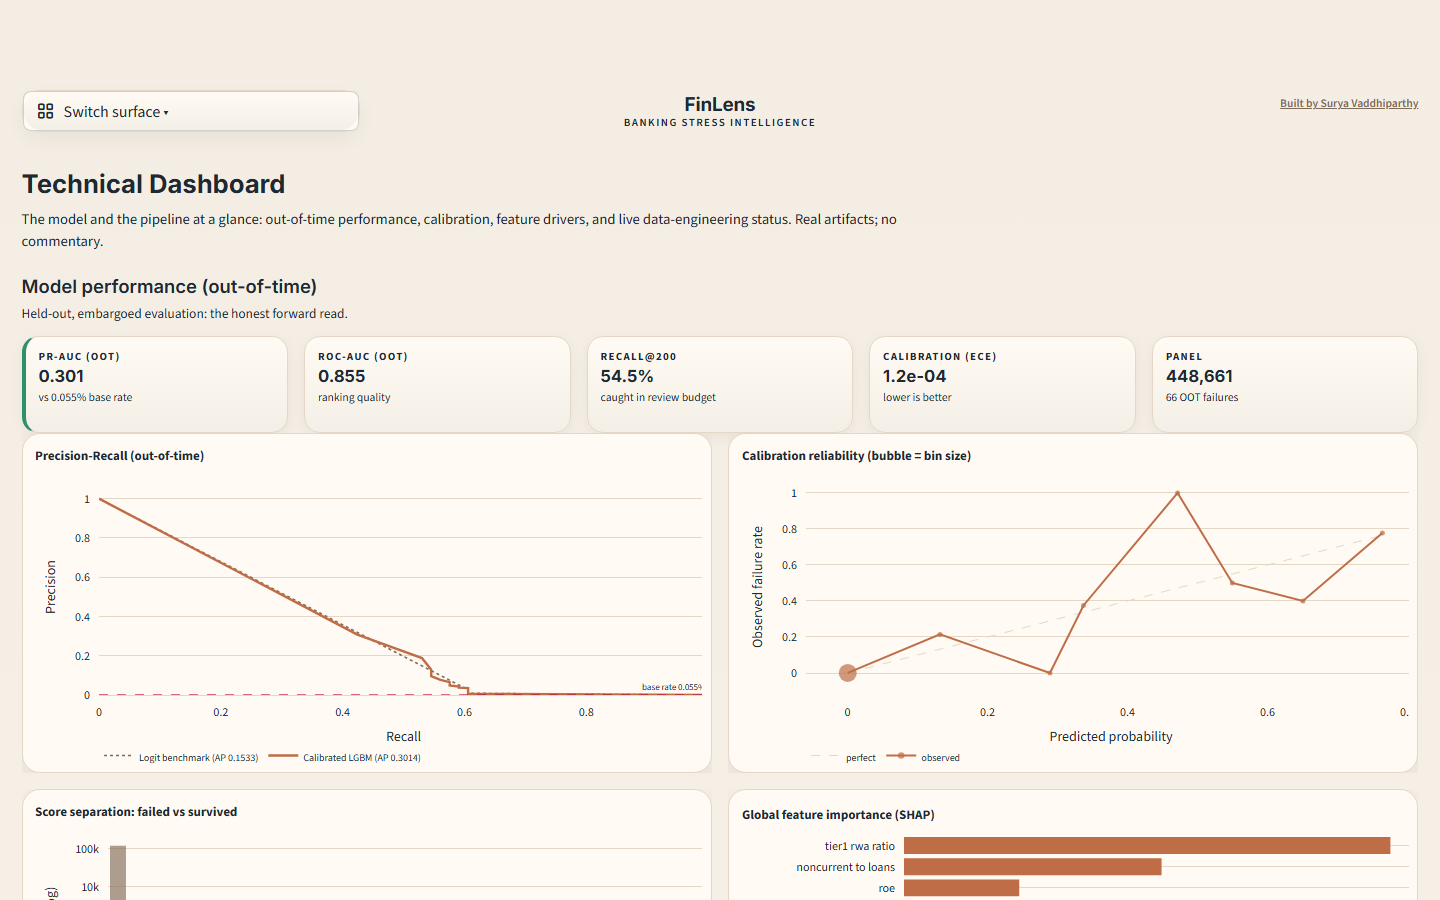
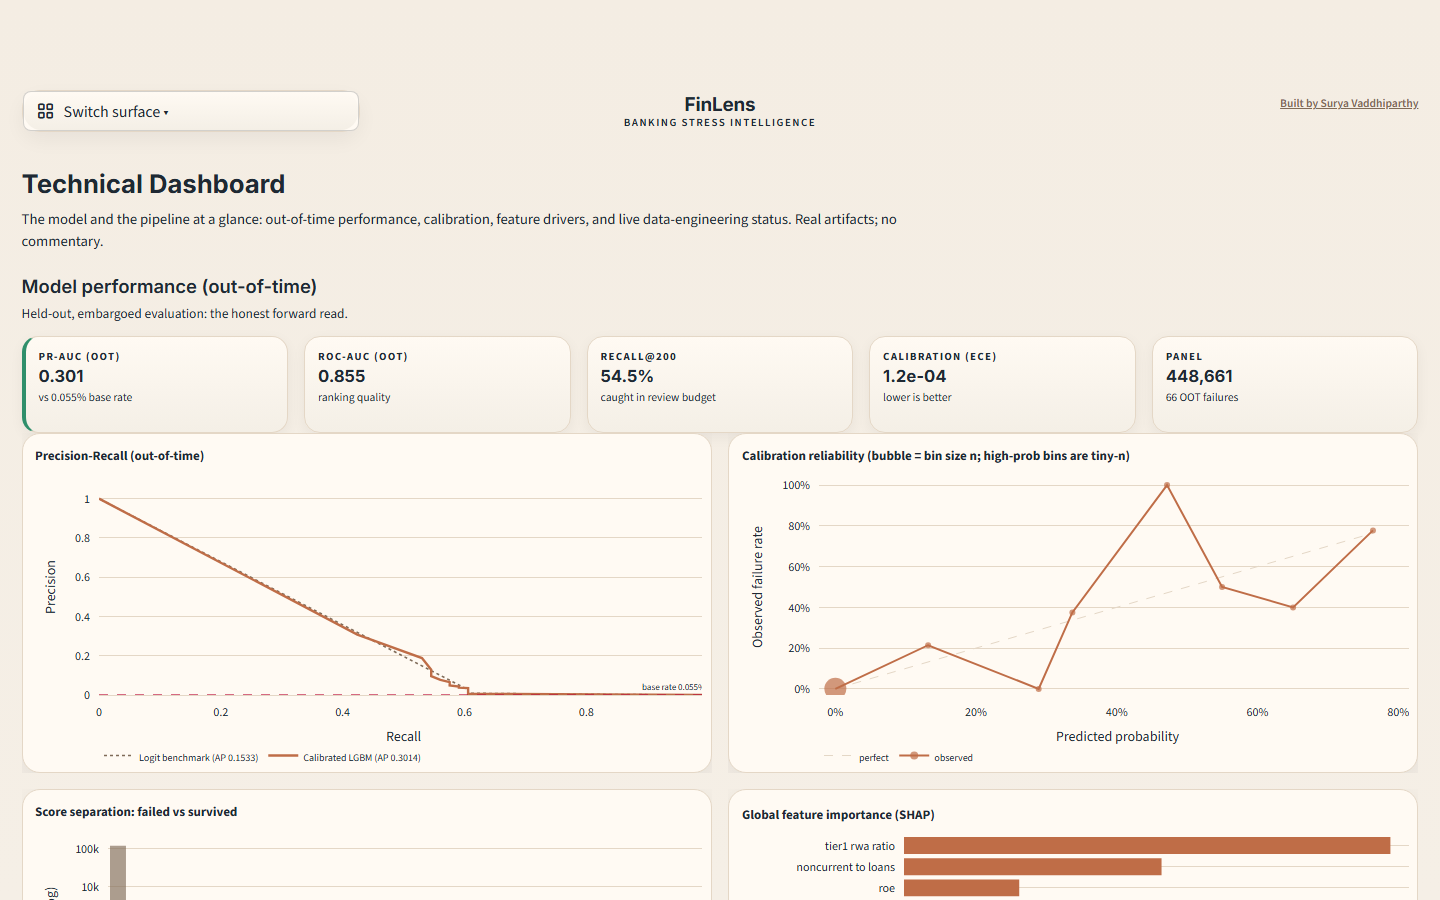
Ceiling round 2: fix AI-inference SHAP caption HTML leak, calibration axes, card contrast
Adversarial re-review fixes: the AI Inference 'what drives this score' caption rendered as
literal HTML (a backslash-escaped apostrophe broke Streamlit's sanitizer) -> now a plain
visible caption. Calibration chart: padded percent axes (top tick no longer clipped) + bin
size on hover + 'high-prob bins are tiny-n' note. Home Browse cards: stronger border, accent
left-edge, shadow, hover lift. pytest 85.

diff --git a/streamlit_app/app.py b/streamlit_app/app.py
@@ -60,18 +60,23 @@ st.markdown(
     .browse-col-h { font-size: .72rem; font-weight: 800; letter-spacing: .14em; text-transform: uppercase;
         color: #bf6d47; margin: .2rem 0 .7rem; }
     .browse-div { border-left: 1px solid #e4d7c6; height: 100%; min-height: 320px; margin: 0 auto; width: 1px; }
-    .nav-card { border: 1px solid #e4d7c6; border-bottom: none; border-radius: 12px 12px 0 0;
-        background: #ffffff; padding: .7rem .9rem .55rem; }
-    .nav-card-t { font-family: "Inter", system-ui, sans-serif; font-weight: 800; font-size: 1.02rem;
+    .nav-card { border: 1px solid #e0d2bf; border-left: 3px solid #bf6d47; border-bottom: none;
+        border-radius: 10px 10px 0 0; background: #ffffff; padding: .8rem .95rem .6rem;
+        box-shadow: 0 6px 18px rgba(15,23,42,.05); }
+    .nav-card-t { font-family: "Inter", system-ui, sans-serif; font-weight: 800; font-size: 1.05rem;
         color: #1f2933; }
     .nav-card-d { color: #6a6b74; font-size: .82rem; line-height: 1.35; margin-top: .15rem; }
     div[class*="st-key-nav_"] button {
-        border: 1px solid #e4d7c6 !important; border-top: none !important;
-        border-radius: 0 0 12px 12px !important; background: #fbf5ee !important;
-        color: #bf6d47 !important; font-weight: 700 !important; margin: 0 0 .8rem !important;
+        border: 1px solid #e0d2bf !important; border-left: 3px solid #bf6d47 !important;
+        border-top: none !important; border-radius: 0 0 10px 10px !important;
+        background: #fbf3ec !important; color: #bf6d47 !important; font-weight: 800 !important;
+        font-size: .9rem !important; margin: 0 0 .85rem !important;
+        box-shadow: 0 6px 18px rgba(15,23,42,.05) !important;
+        transition: background .12s ease, transform .12s ease !important;
     }
     div[class*="st-key-nav_"] button:hover {
         background: #bf6d47 !important; color: #fff !important; border-color: #bf6d47 !important;
+        transform: translateY(-1px) !important;
     }
     div[class*="st-key-nav_"] button:hover * { color: #fff !important; -webkit-text-fill-color: #fff !important; }
     </style>

diff --git a/streamlit_app/lib/ml_charts.py b/streamlit_app/lib/ml_charts.py
@@ -98,18 +98,22 @@ def roc_curve_fig(pack: dict, mode: str | None = None) -> go.Figure:
 def calibration_fig(pack: dict, mode: str | None = None) -> go.Figure:
     pal = get_palette(mode)
     rows = pack["calibration"]
+    mx = max((r["pred"] for r in rows), default=1) or 1
     fig = go.Figure()
-    fig.add_scatter(x=[0, max(r["pred"] for r in rows) or 1], y=[0, max(r["pred"] for r in rows) or 1],
-                    mode="lines", name="perfect", line=dict(color=pal["border"], width=1, dash="dash"))
+    fig.add_scatter(x=[0, mx], y=[0, mx], mode="lines", name="perfect",
+                    line=dict(color=pal["border"], width=1, dash="dash"))
     fig.add_scatter(
         x=[r["pred"] for r in rows], y=[r["obs"] for r in rows],
         mode="lines+markers", name="observed",
         line=dict(color=pal["accent"], width=2),
-        marker=dict(size=[max(5, min(18, (r["n"] ** 0.5) / 3)) for r in rows], color=pal["accent"]),
+        marker=dict(size=[max(6, min(22, (r["n"] ** 0.5) / 2.5)) for r in rows], color=pal["accent"]),
+        customdata=[r["n"] for r in rows],
+        hovertemplate="predicted %{x:.1%}<br>observed %{y:.1%}<br>bin size n=%{customdata}<extra></extra>",
     )
-    fig.update_xaxes(title="Predicted probability")
-    fig.update_yaxes(title="Observed failure rate")
-    return _base(fig, pal, title="Calibration reliability (bubble = bin size)")
+    # explicit padded ranges so the top tick label is not clipped, and a sane y window
+    fig.update_xaxes(title="Predicted probability", range=[-mx * 0.03, mx * 1.08], tickformat=".0%")
+    fig.update_yaxes(title="Observed failure rate", range=[-0.03, 1.03], tickformat=".0%")
+    return _base(fig, pal, title="Calibration reliability (bubble = bin size n; high-prob bins are tiny-n)")
 
 
 def score_dist_fig(pack: dict, mode: str | None = None) -> go.Figure:

diff --git a/streamlit_app/pages/9_AI_Inference.py b/streamlit_app/pages/9_AI_Inference.py
@@ -95,11 +95,9 @@ def _render_preview(out: dict) -> None:
     with scol:
         fig = _shap_diverging(result.get("reasons", []))
         if fig is not None:
-            st.markdown("**What drives this score** "
-                        "<span title='Each bar is a feature\\'s SHAP contribution to THIS score. "
-                        "Red bars (right) pushed the risk up; green bars (left) pulled it down. "
-                        "Longer = bigger influence.' style='cursor:help;color:#bf6d47;'>ⓘ</span>",
-                        unsafe_allow_html=True)
+            st.markdown("**What drives this score**")
+            st.caption("Each bar is a feature's push on THIS bank's score: red (right) raised the "
+                       "risk, green (left) lowered it; longer = bigger effect.")
             st.plotly_chart(fig, use_container_width=True, key="inf_shap")
 
 
